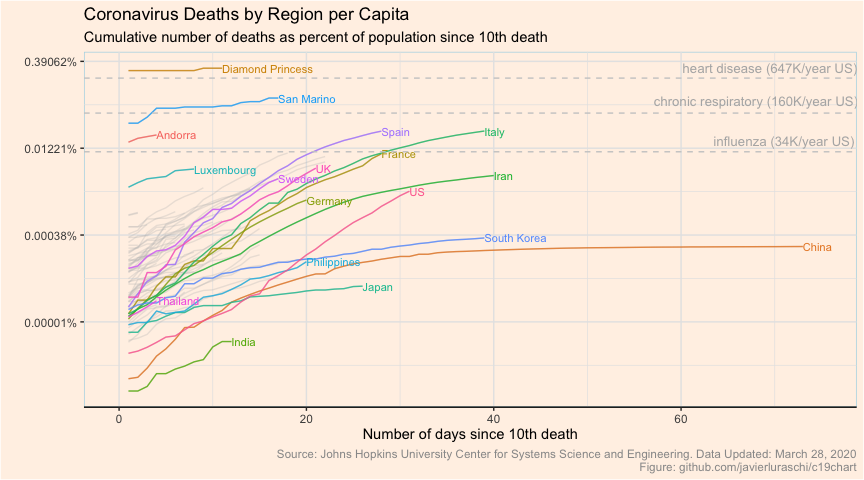
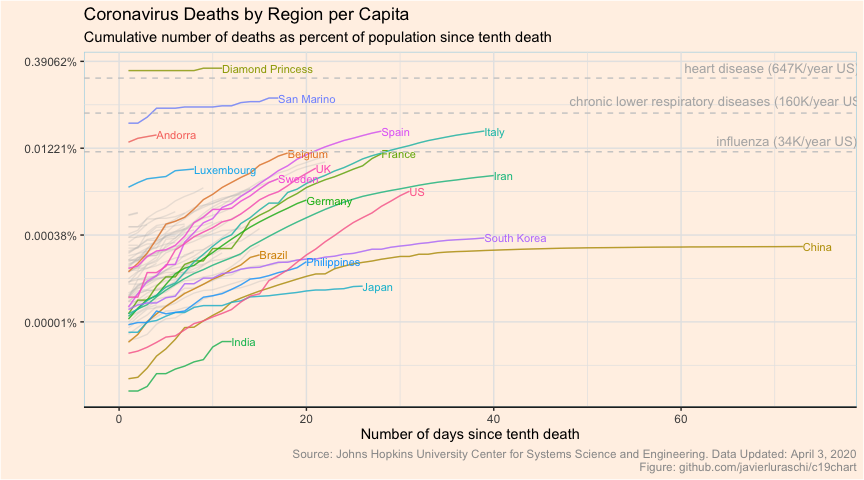
normalize reference deaths per day

diff --git a/README.md b/README.md
@@ -110,7 +110,7 @@ covid_since_start <- since_start %>%
   left_join(population, by = "country") %>%
   mutate(total_percent = total / population)
 
-highlight_since_start <- filter(covid_since_start, country %in% c("San Marino", "Andorra", "Iceland", "India", "Luxembourg", "US", "Spain", "Italy", "Japan", "China", "Iran", "UK", "South Korea", "Singapore", "Diamond Princess", "Vietnam", "Taiwan*", "Thailand", "Germany", "France", "Monaco", "Sweden", "Philippines"))
+highlight_since_start <- filter(covid_since_start, country %in% c("San Marino", "Andorra", "Iceland", "India", "Luxembourg", "US", "Spain", "Italy", "Japan", "China", "Iran", "UK", "South Korea", "Singapore", "Diamond Princess", "Vietnam", "Taiwan*", "Germany", "France", "Monaco", "Sweden", "Philippines", "Belgium", "Brazil"))
 
 population_us <- population %>% filter(country == "US") %>% pull(population)
 total_us <- coronavirus %>% 
@@ -126,10 +126,10 @@ highlight_since_start %>%
     scale_x_continuous(limits = c(0, 75)) +
     scale_y_continuous(labels = scales::percent_format(accuracy = 0.00001), trans='log2') +
     geom_dl(aes(label = country), method = list("last.bumpup", cex = 0.7)) +
-    xlab("Number of days since 10th death") + ylab("") +
+    xlab("Number of days since tenth death") + ylab("") +
     labs(title = "Coronavirus Deaths by Region per Capita",
-         subtitle = "Cumulative number of deaths as percent of population since 10th death",
-         caption = element_text("Source: Johns Hopkins University Center for Systems Science and Engineering. Data Updated: March 28, 2020\nFigure: github.com/javierluraschi/c19chart", color="grey")) +
+         subtitle = "Cumulative number of deaths as percent of population since tenth death",
+         caption = element_text("Source: Johns Hopkins University Center for Systems Science and Engineering. Data Updated: April 3, 2020\nFigure: github.com/javierluraschi/c19chart", color="grey")) +
     theme_bw() + 
     theme(plot.background = element_rect(fill = "#fff1e6"),
           panel.background = element_rect(fill = "#fff1e6",
@@ -142,13 +142,13 @@ highlight_since_start %>%
           panel.border = element_blank()) +
     # https://www.cdc.gov/flu/about/burden/2018-2019.html
     geom_hline(aes(yintercept = 34200 / population_us), colour="grey80", linetype="dashed") +
-    annotate("text", x=71, y = 34200 / population_us + 0.00006, label = "influenza (34K/year US)", size = 3.5, colour="grey70") +
+    annotate("text", x=71.3, y = 34200 / population_us + 0.00006, label = "influenza (34K/year US)", size = 3.5, colour="grey70") +
     # https://www.cdc.gov/nchs/fastats/leading-causes-of-death.htm
     geom_hline(aes(yintercept = 160201 / population_us), colour="grey80", linetype="dashed") +
-    annotate("text", x=68, y = 160201 / population_us + 0.0003, label = "chronic respiratory (160K/year US)", size = 3.5, colour="grey70") +
+    annotate("text", x=63.9, y = 160201 / population_us + 0.0003, label = "chronic lower respiratory diseases (160K/year US)", size = 3.5, colour="grey70") +
     # https://www.cdc.gov/heartdisease/facts.htm
     geom_hline(aes(yintercept = 647000 / population_us), colour="grey80", linetype="dashed") +
-    annotate("text", x=69.5, y = 647000 / population_us + 0.001, label = "heart disease (647K/year US)", size = 3.5, colour="grey70") +
+    annotate("text", x=69.7, y = 647000 / population_us + 0.001, label = "heart disease (647K/year US)", size = 3.5, colour="grey70") +
     ggsave("covid19-deaths-per-capita.png", device = "png", width = 10, height = 5)
 ```
 
